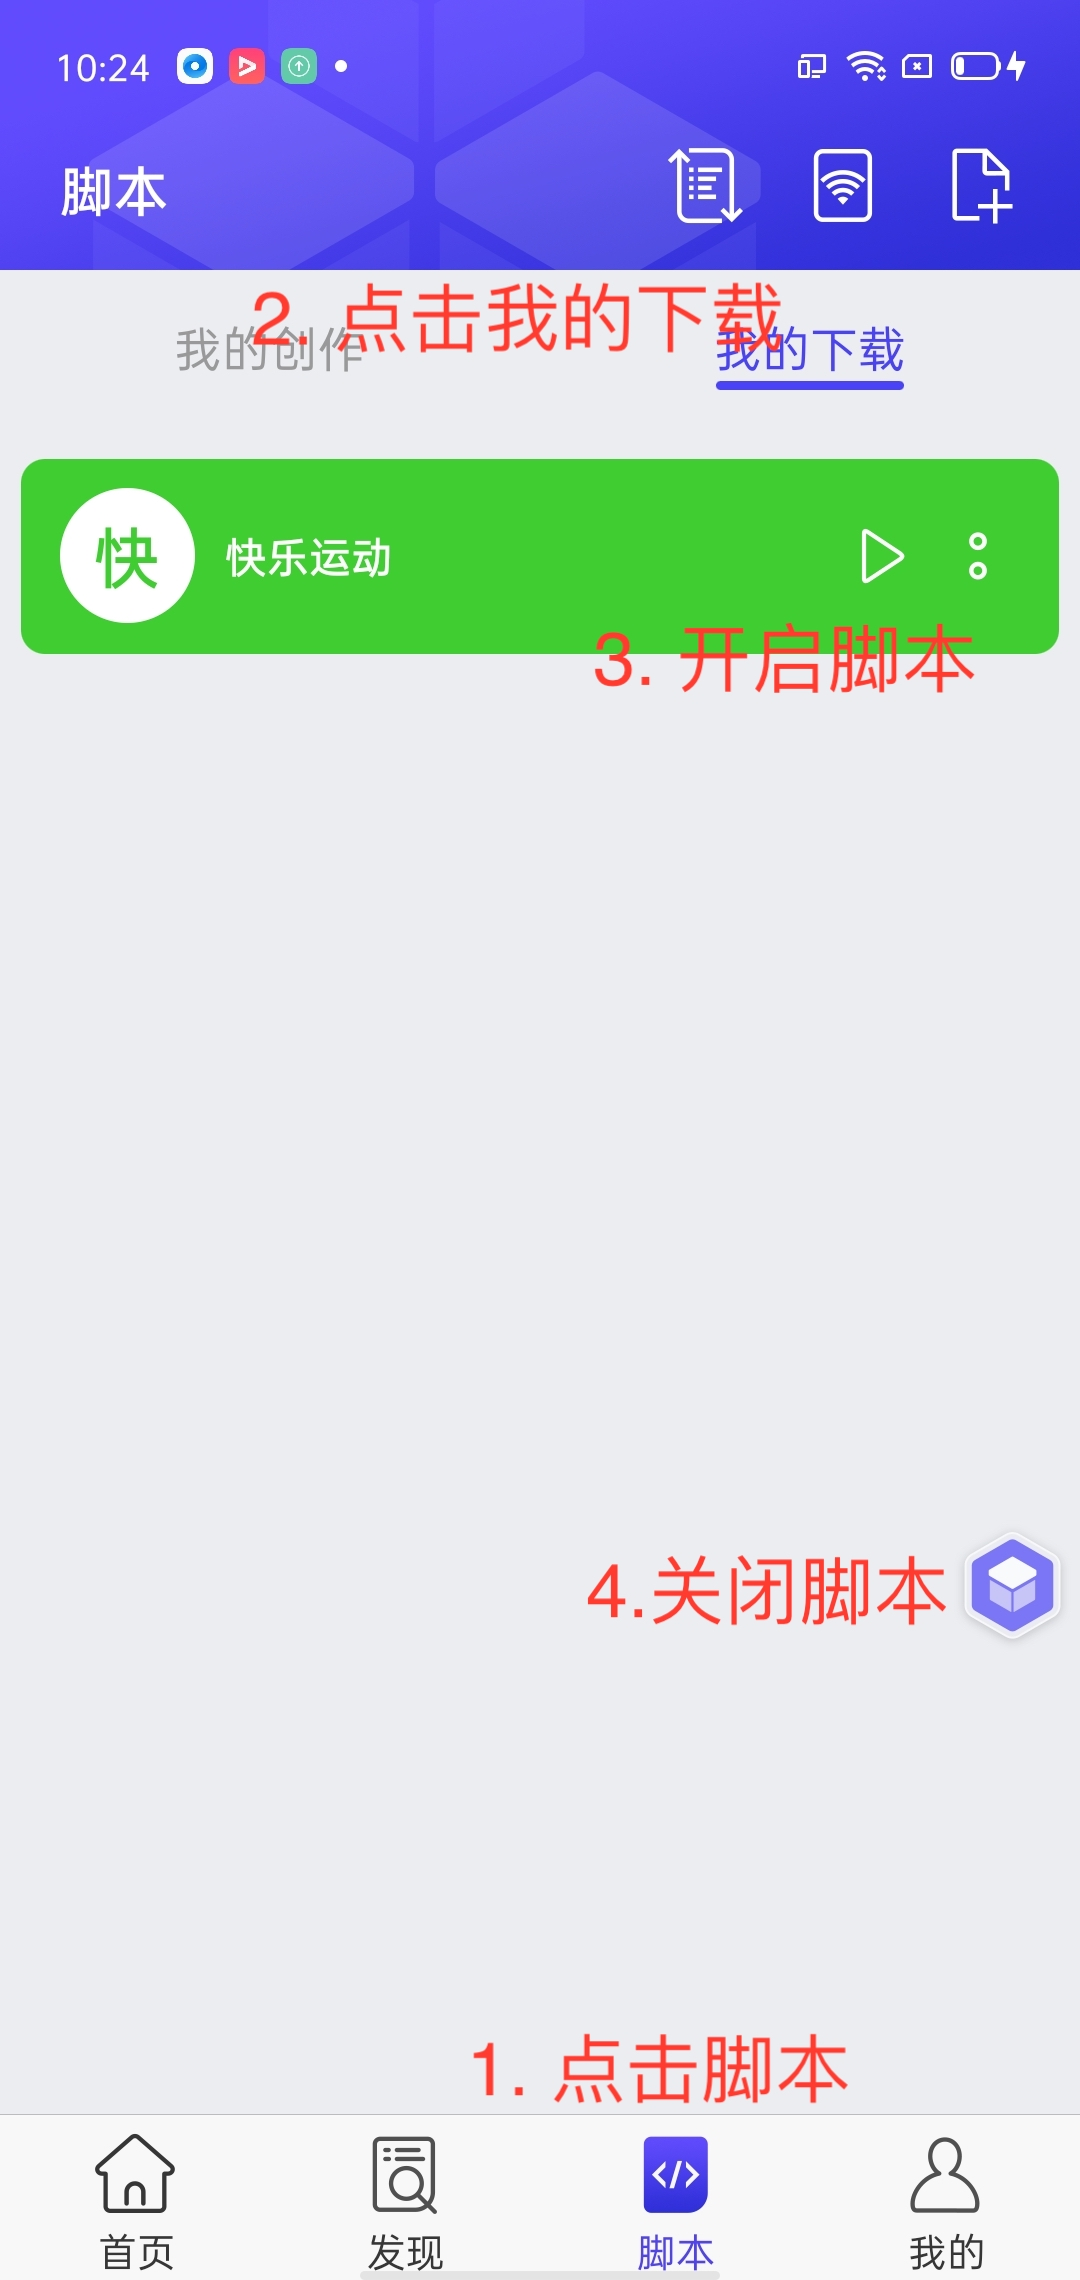
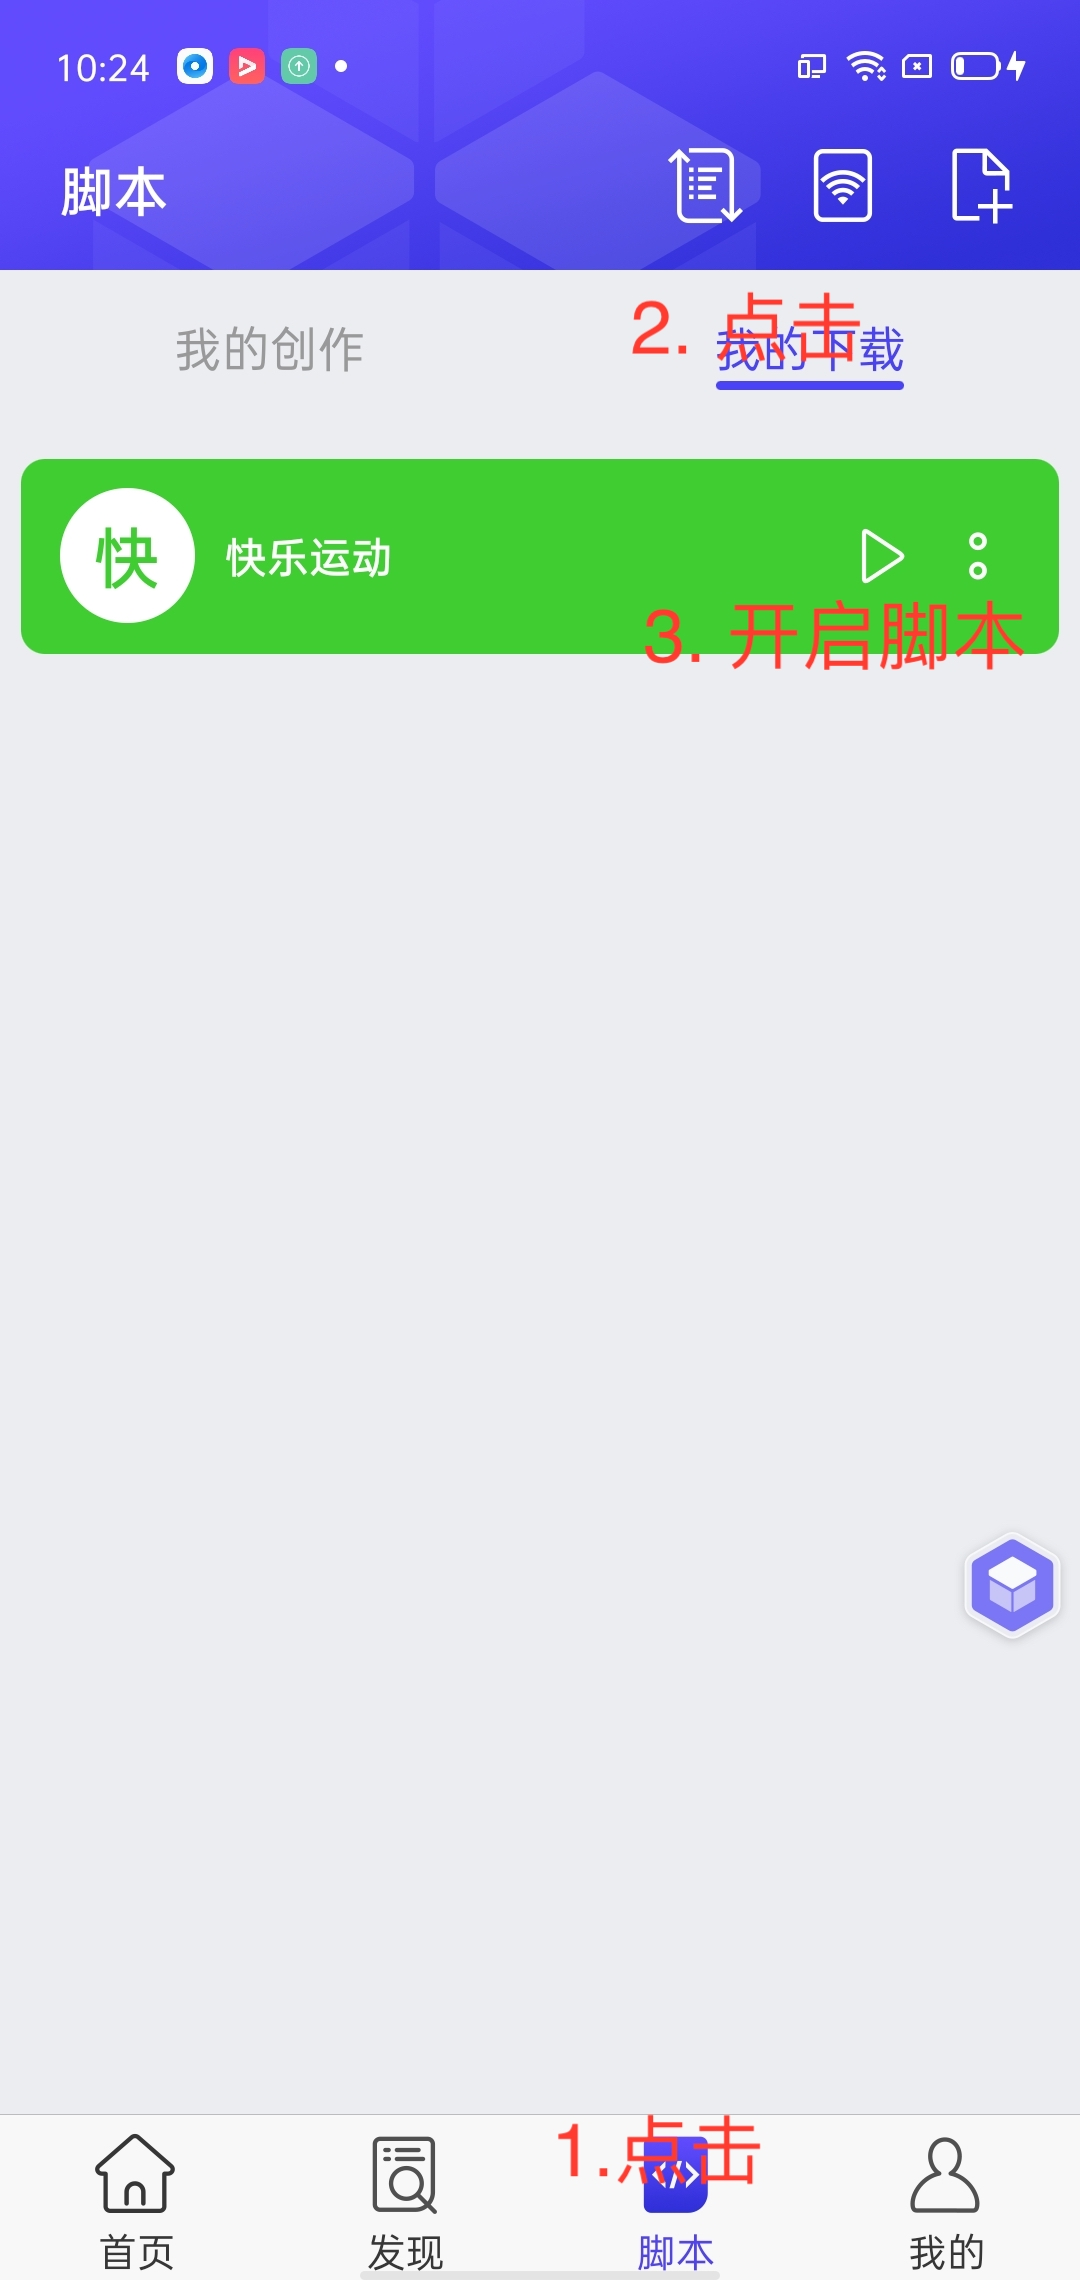
文档

diff --git a/Public/README.html b/Public/README.html
@@ -603,6 +603,6 @@ header, .context-menu, .megamenu-content, footer{
 </style><title>README</title>
 </head>
 <body class='typora-export'><div class='typora-export-content'>
-<div id='write'  class=''><h1 id='使用教程'><span>使用教程</span></h1><p><span>使用手机浏览器打开链接，不要在微信里打开。</span></p><h2 id='安装app'><span>安装App</span></h2><h3 id='1-下载-快乐运动-点击打开链接点击开始运动下载注册并登录'><span>1. </span><strong><span>下载 快乐运动 </span><a href='https://sport.yuekun.net'><span>点击打开链接，点击开始运动下载</span></a><span>，注册并登录。</span></strong></h3><h3 id='2-下载-积木编程-点击打开链接点击下载客户端下载注册并登录'><span>2. </span><strong><span>下载 积木编程 </span><a href='https://www.touchsprite.com/luabox'><span>点击打开链接，点击下载客户端下载</span></a><span>，注册并登录。</span></strong></h3><h2 id='自动脚本使用'><span>自动脚本使用</span></h2><h3 id='1-打开-积木编程-搜索'><span>1. 打开 </span><strong><span>积木编程</span></strong><span> 搜索</span></h3><p><img src="./assets/images/1.jpg" referrerpolicy="no-referrer"></p><h3 id='2-下载脚本'><span>2. 下载脚本</span></h3><p><img src="./assets/images/2.jpg" referrerpolicy="no-referrer"></p><h3 id='3-开启权限'><span>3. 开启权限</span></h3><p><img src="./assets/images/3.jpg" referrerpolicy="no-referrer"></p><h3 id='4-找到积木编程打开权限'><span>4. 找到积木编程，打开权限</span></h3><p><img src="./assets/images/4.jpg" referrerpolicy="no-referrer"></p><h3 id='5-返回-积木编程app-打开脚本'><span>5. 返回 积木编程App 打开脚本</span></h3><p><img src="./assets/images/5.jpg" referrerpolicy="no-referrer"></p><p>&nbsp;</p></div></div>
+<div id='write'  class=''><h1 id='使用教程'><span>使用教程</span></h1><p><span>使用手机浏览器打开链接，不要在微信里打开。</span></p><h2 id='安装app'><span>安装App</span></h2><h3 id='1-下载-快乐运动-点击打开链接点击开始运动下载httpssportyuekunnet注册并登录'><span>1. </span><strong><span>下载 快乐运动 </span><a href='https://sport.yuekun.net'><span>点击打开链接，点击开始运动下载</span></a><span>，注册并登录。</span></strong></h3><h3 id='2-下载-积木编程-点击打开链接点击下载客户端下载httpswwwtouchspritecomluabox注册并登录'><span>2. </span><strong><span>下载 积木编程 </span><a href='https://www.touchsprite.com/luabox'><span>点击打开链接，点击下载客户端下载</span></a><span>，注册并登录。</span></strong></h3><h2 id='自动脚本使用'><span>自动脚本使用</span></h2><h3 id='1-打开-积木编程-搜索'><span>1. 打开 </span><strong><span>积木编程</span></strong><span> 搜索</span></h3><p><img src="./assets/images/1.jpg" referrerpolicy="no-referrer"></p><h3 id='2-下载脚本'><span>2. 下载脚本</span></h3><p><img src="./assets/images/2.jpg" referrerpolicy="no-referrer"></p><h3 id='3-开启权限'><span>3. 开启权限</span></h3><p><img src="./assets/images/3.jpg" referrerpolicy="no-referrer"></p><h3 id='4-找到积木编程打开权限'><span>4. 找到积木编程，打开权限</span></h3><p><img src="./assets/images/4.jpg" referrerpolicy="no-referrer"></p><h3 id='5-返回-积木编程app-打开脚本'><span>5. 返回 积木编程App 打开脚本</span></h3><p><img src="./assets/images/5.jpg" referrerpolicy="no-referrer"></p><p>&nbsp;</p></div></div>
 </body>
 </html>

diff --git a/Public/README.md b/Public/README.md
@@ -29,3 +29,5 @@
 ### 5. 返回 积木编程App 打开脚本
 ![](./assets/images/5.jpg)
 
+### 6. 关闭脚本
+![](./assets/images/6.jpg)
